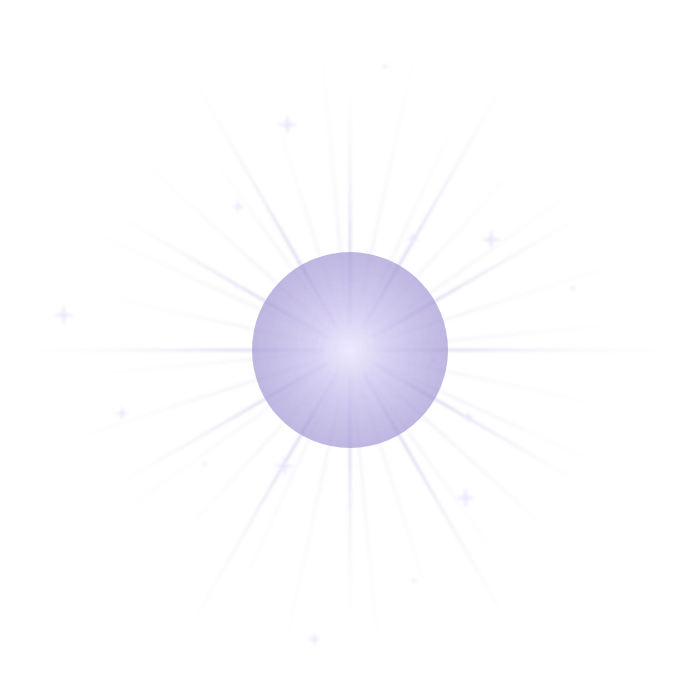
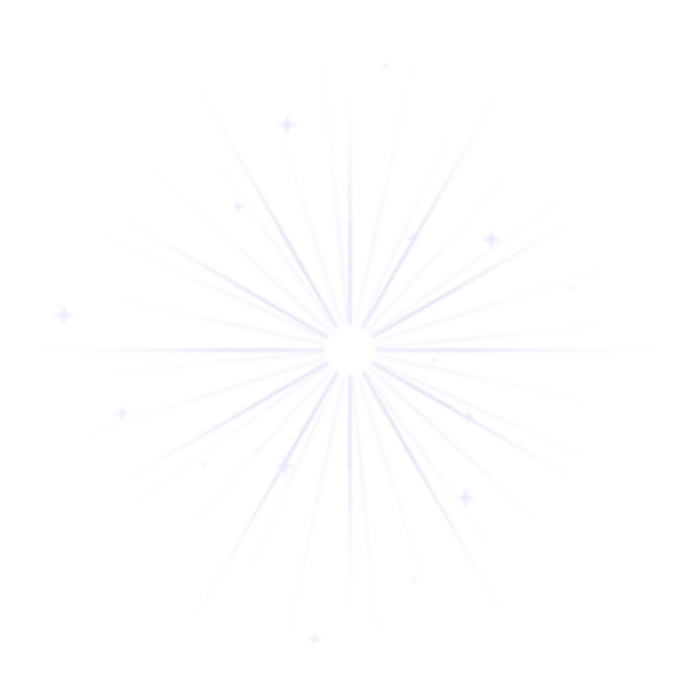
Poço: revelação desenhada (a arte real do prêmio emerge da água, aro de raridade com runas e joias, raios sem disco) e etiquetas ornamentais no topo
Claude-Session: https://claude.ai/code/session_01Fm5U3bqZz6wpuWL1ksRMyi

Changed region(s): [[0.36, 0.36, 0.66, 0.66]]

diff --git a/components/devo/poco/poco-resultado.tsx b/components/devo/poco/poco-resultado.tsx
@@ -56,12 +56,23 @@ export function PocoResultadoView({ r, nome, onFechar }: { r: PocoResultado; nom
       {etapa === 'abrindo' ? (
         <div className="absolute inset-0 flex flex-col items-center justify-center">
           {tier > 0 && (
-            <img src={`${ART}/raios-${raios}.webp`} alt="" draggable={false} className="poco-raios-in pointer-events-none absolute left-1/2 top-[42%] w-[150%] max-w-none" style={{ animationDuration: `${DUR[tier]}ms` } as CSSProperties} />
+            <img src={`${ART}/raios-${raios}.webp`} alt="" draggable={false} className="poco-raios-in pointer-events-none absolute left-1/2 top-[40%] w-[165%] max-w-none" style={{ animationDuration: `${DUR[tier]}ms` } as CSSProperties} />
           )}
-          {tier >= 4 && <img src={`${ART}/raios-ame.webp`} alt="" draggable={false} className="poco-raios-in-rev pointer-events-none absolute left-1/2 top-[42%] w-[110%] max-w-none" />}
-          <div className="poco-silhueta relative mb-[18%] size-40" style={{ animationDuration: `${DUR[tier]}ms` } as CSSProperties}>
-            <PremioArte r={r} nome={nome} silhueta />
+          {tier >= 4 && <img src={`${ART}/raios-ame.webp`} alt="" draggable={false} className="poco-raios-in-rev pointer-events-none absolute left-1/2 top-[40%] w-[125%] max-w-none" />}
+          {/* aro de raridade: runas, joias e brasão crescem com o nível */}
+          {tier > 0 && (
+            <img src={`${ART}/aro-${tier}.webp`} alt="" draggable={false} className="poco-aro-in pointer-events-none absolute left-1/2 top-[40%] w-[78%] max-w-[320px]" style={{ animationDuration: `${DUR[tier]}ms` } as CSSProperties} />
+          )}
+          {/* o prêmio emerge da água: sombra que se dissolve sobre a arte real */}
+          <div className="absolute left-1/2 top-[40%] size-44 -translate-x-1/2 -translate-y-1/2">
+            <div className="poco-emergir absolute inset-0" style={{ animationDuration: `${DUR[tier]}ms` } as CSSProperties}>
+              <PremioArte r={r} nome={nome} />
+              <div className="poco-sombra-sai absolute inset-0" style={{ animationDuration: `${DUR[tier]}ms` } as CSSProperties}>
+                <PremioArte r={r} nome={nome} silhueta />
+              </div>
+            </div>
           </div>
+          <img src={`${ART}/respingo.webp`} alt="" draggable={false} className={cn('poco-respingo pointer-events-none absolute left-1/2 top-[55%] w-[86%] max-w-[340px]', tier === 0 && 'opacity-50 grayscale')} />
           <p className="dv-label absolute bottom-[22%] text-[11px] text-dv-text-2">{tier === 0 ? 'Algo pinga do balde…' : tier >= 3 ? 'O poço responde' : 'O balde se abre'}</p>
           <button
             type="button"
@@ -156,7 +167,7 @@ function SeloRaridade({ raridade, provisorio }: { raridade: ItemRarity; provisor
 /* ── Arte de cada categoria ───────────────────────────────────────────────────────────── */
 
 export function PremioArte({ r, nome, silhueta = false }: { r: PocoResultado; nome: string; silhueta?: boolean }) {
-  const cls = cn('relative size-full object-contain', silhueta && 'brightness-0 invert opacity-95 drop-shadow-[0_0_16px_rgba(194,185,236,0.95)]')
+  const cls = cn('relative size-full object-contain', silhueta && 'brightness-0')
   if (r.categoria === 'lixo') return <img src={`${ART}/lixo-${r.lixo?.id ?? 'nada'}.webp`} alt="" draggable={false} className={cn(cls, !silhueta && 'opacity-90 grayscale-[0.3]')} />
   if (r.categoria === 'cosmetico' && r.item) return <Cosmetico r={r} nome={nome} silhueta={silhueta} />
   const src = r.categoria === 'capsula' ? 'capsula' : r.categoria === 'essencia' ? 'essencia' : 'fragmento'
@@ -176,7 +187,7 @@ function Cosmetico({ r, nome, silhueta }: { r: PocoResultado; nome: string; silh
   const t = TIER[r.item?.raridade ?? 'comum']
   if (cat === 'balao') {
     return (
-      <div className={cn('flex w-[230px] items-end gap-2', silhueta && 'brightness-0 invert opacity-95')}>
+      <div className={cn('flex w-[230px] items-end gap-2', silhueta && 'brightness-0')}>
         <Avatar nome={nome} className="size-10 shrink-0" fs={17} />
         <div className="relative min-w-0 flex-1 px-3.5 pb-2.5 pt-2 text-left">
           {asset ? (
@@ -192,7 +203,7 @@ function Cosmetico({ r, nome, silhueta }: { r: PocoResultado; nome: string; silh
   }
   if (cat === 'emblema') {
     return (
-      <div className={cn('relative size-full', silhueta && 'brightness-0 invert opacity-95')}>
+      <div className={cn('relative size-full', silhueta && 'brightness-0')}>
         <span aria-hidden="true" className="poco-halo absolute inset-[-10%] bg-[radial-gradient(50%_50%_at_50%_50%,rgba(194,185,236,0.55),transparent_70%)]" />
         {asset ? <img src={asset} alt="" className="relative size-full object-contain" /> : <EmblemaOrnamental tier={t} />}
       </div>
@@ -200,7 +211,7 @@ function Cosmetico({ r, nome, silhueta }: { r: PocoResultado; nome: string; silh
   }
   // moldura de avatar / miniperfil / efeito: aplicada ao avatar do jogador
   return (
-    <div className={cn('relative size-full', silhueta && 'brightness-0 invert opacity-95')}>
+    <div className={cn('relative size-full', silhueta && 'brightness-0')}>
       <Avatar nome={nome} className="absolute inset-[16%]" />
       {asset ? <img src={asset} alt="" className="absolute inset-0 size-full object-contain" /> : <MolduraAvatar tier={t} />}
     </div>

diff --git a/components/devo/poco/poco-app.tsx b/components/devo/poco/poco-app.tsx
@@ -12,7 +12,7 @@ import { Button, Spinner } from '../kit/button'
 import { EmblemMark, EmblemPoco } from '../kit/emblems'
 import { callName, useDevo } from '../state/devo-store'
 import { BaldesSheet, LancarSheet, MoedasSheet } from './poco-folhas'
-import { FaixaOrnamental, MedalhaoDentado, PlacaGotica } from './poco-ornamentos'
+import { Etiqueta, FaixaOrnamental, MedalhaoDentado, PlacaGotica } from './poco-ornamentos'
 import { BaldeIcon, type BaldePosicao, DracmaIcon, PocoCena } from './poco-cena'
 import { PocoManivela } from './poco-manivela'
 import { PocoNeblina } from './poco-neblina'
@@ -293,14 +293,15 @@ function PocoTela({ data, refresh }: { data: Liberado; refresh: () => void }) {
 
         <div className="flex items-start justify-between gap-2 px-3 pt-1.5">
           <div className="animate-dv-fade flex min-w-0 flex-col gap-1">
-            <p className="flex min-h-8 items-center gap-2 py-1 pl-1 pr-3 [background:linear-gradient(90deg,rgba(12,12,14,0.85),rgba(12,12,14,0.5)_80%,transparent)]">
-              <img src={`/images/poco/balde-${['madeira', 'ferro', 'cobre', 'prata'].includes(baldeAtual?.id ?? '') ? baldeAtual?.id : 'madeira'}.webp`} alt="" className="h-9 w-auto object-cover object-bottom [aspect-ratio:120/120] [object-position:50%_92%]" />
-              <span className="truncate font-display text-[12.5px] font-semibold uppercase tracking-[0.1em] text-dv-text-2">{baldeAtual?.nome}</span>
-            </p>
-            <p className={cn('flex w-fit items-center gap-2 py-0.5 pl-2 pr-3 font-mono text-[10.5px] uppercase tracking-[0.12em]', data.giroGratis.disponivel ? 'text-dv-amethyst-text' : 'text-dv-text-3')}>
-              <span aria-hidden="true" className={cn('size-2 rotate-45', data.giroGratis.disponivel ? 'bg-dv-amethyst shadow-[0_0_8px_rgba(138,124,200,0.9)]' : 'border border-dv-line-strong')} />
-              {data.giroGratis.disponivel ? 'Giro grátis disponível' : 'Giro grátis usado hoje'}
-            </p>
+            <Etiqueta joia={false} className="pl-2">
+              <img src={`/images/poco/balde-${['madeira', 'ferro', 'cobre', 'prata'].includes(baldeAtual?.id ?? '') ? baldeAtual?.id : 'madeira'}.webp`} alt="" className="h-7 w-7 object-cover [object-position:50%_92%]" />
+              <span className="truncate font-display text-[12px] font-semibold uppercase tracking-[0.1em] text-dv-text-2">{baldeAtual?.nome}</span>
+            </Etiqueta>
+            <Etiqueta aceso={data.giroGratis.disponivel}>
+              <span className={cn('whitespace-nowrap font-mono text-[10.5px] uppercase tracking-[0.12em]', data.giroGratis.disponivel ? 'text-dv-amethyst-text' : 'text-dv-text-3')}>
+                {data.giroGratis.disponivel ? 'Giro grátis disponível' : 'Giro grátis usado hoje'}
+              </span>
+            </Etiqueta>
           </div>
           <BotaoTresPontos onClick={() => setFolha('moedas')} />
         </div>

diff --git a/components/devo/poco/poco-ornamentos.tsx b/components/devo/poco/poco-ornamentos.tsx
@@ -242,3 +242,27 @@ export function MolduraResultado({ raridade, lixo = false, children, className }
     </div>
   )
 }
+
+/**
+ * Etiqueta ornamental (estados do topo: balde em uso, giro grátis): placa de mármore negro com filete duplo de
+ * aço, ponta de lança à direita e joia em losango à esquerda (acesa em ametista quando `aceso`).
+ */
+export function Etiqueta({ children, aceso = false, joia = true, className }: { children: ReactNode; aceso?: boolean; joia?: boolean; className?: string }) {
+  const id = useId().replace(/:/g, '')
+  return (
+    <div className={cn('relative flex min-h-8 w-fit max-w-full items-center pl-6 pr-6', className)}>
+      <svg viewBox="0 0 200 32" preserveAspectRatio="none" className="absolute inset-0 size-full" aria-hidden="true">
+        <defs>
+          <Metal id={id} />
+        </defs>
+        <path d="M10 2H186L198 16L186 30H10L2 16Z" fill="#0f0f12" fillOpacity="0.9" />
+        <path d="M10 2H186L198 16L186 30H10L2 16Z" fill="none" stroke={`url(#${id}-m)`} strokeWidth="1.2" vectorEffect="non-scaling-stroke" />
+        <path d="M12 5H184L193 16L184 27H12L6 16Z" fill="none" stroke={aceso ? '#8a7cc8' : '#5f584d'} strokeWidth="0.8" vectorEffect="non-scaling-stroke" opacity="0.9" />
+      </svg>
+      {joia && (
+        <span aria-hidden="true" className="absolute left-[7px] top-1/2 size-2.5 -translate-y-1/2 rotate-45 border border-[#d8cfbf]" style={{ background: aceso ? 'radial-gradient(circle at 35% 30%,#f3efff,#8a7cc8 55%,#2b2450)' : 'linear-gradient(135deg,#6b6357,#2a2621)', boxShadow: aceso ? '0 0 8px rgba(138,124,200,0.9)' : undefined }} />
+      )}
+      <div className="relative flex min-w-0 items-center gap-2">{children}</div>
+    </div>
+  )
+}

diff --git a/components/devo/poco/poco.css b/components/devo/poco/poco.css
@@ -122,6 +122,31 @@
 }
 .poco-silhueta { animation: poco-silhueta 1200ms var(--dv-ease-out) both; }
 
+/* aro de raridade e emersão do prêmio (os elementos ficam centrados por transform) */
+@keyframes poco-aro-in {
+  0% { transform: translate(-50%, -50%) scale(0.55) rotate(-40deg); opacity: 0; }
+  60% { opacity: 1; }
+  100% { transform: translate(-50%, -50%) scale(1) rotate(0deg); opacity: 1; }
+}
+.poco-aro-in { animation: poco-aro-in 1400ms var(--dv-ease-out) both; }
+@keyframes poco-emergir {
+  0% { transform: translateY(80px) scale(0.7); opacity: 0; clip-path: inset(0 0 100% 0); }
+  30% { opacity: 1; }
+  100% { transform: translateY(0) scale(1); opacity: 1; clip-path: inset(0 0 0 0); }
+}
+.poco-emergir { animation: poco-emergir 1400ms var(--dv-ease-out) both; }
+@keyframes poco-sombra-sai {
+  0%, 35% { opacity: 1; }
+  100% { opacity: 0; }
+}
+.poco-sombra-sai { animation: poco-sombra-sai 1400ms ease-out both; }
+@keyframes poco-respingo {
+  0% { transform: translate(-50%, -50%) scale(0.6); opacity: 0; }
+  30% { opacity: 1; }
+  100% { transform: translate(-50%, -50%) scale(1.05); opacity: 0.85; }
+}
+.poco-respingo { animation: poco-respingo 1200ms var(--dv-ease-out) both; }
+
 /* faixa de prêmios: entra pela direita, segura, sai pela esquerda */
 @keyframes poco-faixa {
   0% { transform: translateX(105%); opacity: 0; }
@@ -159,6 +184,10 @@
   .poco-raios-in-rev,
   .poco-raios-lento,
   .poco-silhueta,
-  .poco-faixa { animation: none !important; }
+  .poco-faixa,
+  .poco-aro-in,
+  .poco-emergir,
+  .poco-sombra-sai,
+  .poco-respingo { animation: none !important; }
   .poco-coin, .poco-ripple { opacity: 0; }
 }
